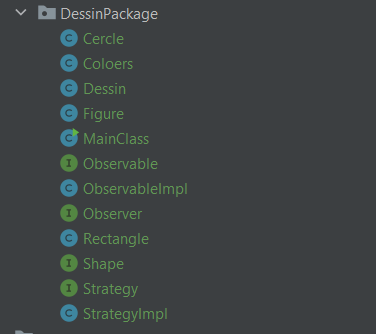
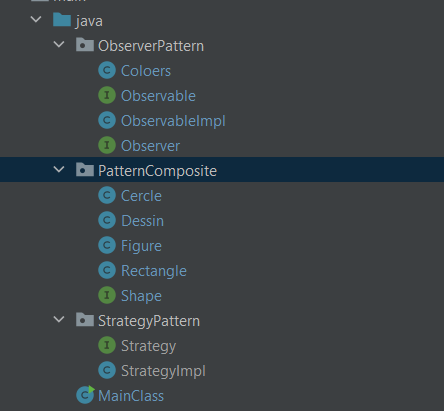
some changes to project strcture

Changed region(s): [[0.0, 0.0, 1.0, 0.988], [0.0293, 0.988, 0.0878, 1.0]]

diff --git a/src/main/java/PatternComposite/Cercle.java b/src/main/java/PatternComposite/Cercle.java
@@ -1,8 +1,12 @@
-package DessinPackage;
+package PatternComposite;
+
+import ObserverPattern.Coloers;
+import ObserverPattern.ObservableImpl;
+import ObserverPattern.Observer;
 
 import java.io.Serializable;
 
-public class Cercle implements Shape,Observer, Serializable {
+public class Cercle implements Shape, Observer, Serializable {
     ObservableImpl observable = new ObservableImpl();
     Coloers coloers = new Coloers();
     double rayon;

diff --git a/src/main/java/MainClass.java b/src/main/java/MainClass.java
@@ -1,4 +1,8 @@
-package DessinPackage;
+import PatternComposite.*;
+import ObserverPattern.Coloers;
+import ObserverPattern.ObservableImpl;
+import StrategyPattern.Strategy;
+import StrategyPattern.StrategyImpl;
 
 import java.io.IOException;
 

diff --git a/src/main/java/PatternComposite/Rectangle.java b/src/main/java/PatternComposite/Rectangle.java
@@ -1,4 +1,8 @@
-package DessinPackage;
+package PatternComposite;
+
+import ObserverPattern.Coloers;
+import ObserverPattern.ObservableImpl;
+import ObserverPattern.Observer;
 
 import java.io.Serializable;
 

diff --git a/src/main/java/PatternComposite/Dessin.java b/src/main/java/PatternComposite/Dessin.java
@@ -1,4 +1,6 @@
-package DessinPackage;
+package PatternComposite;
+
+import StrategyPattern.Strategy;
 
 import java.io.*;
 import java.util.ArrayList;

diff --git a/src/main/java/ObserverPattern/Observable.java b/src/main/java/ObserverPattern/Observable.java
@@ -1,4 +1,4 @@
-package DessinPackage;
+package ObserverPattern;
 
 public interface Observable {
     public void addObserver(Observer obs);

diff --git a/src/main/java/PatternComposite/Figure.java b/src/main/java/PatternComposite/Figure.java
@@ -1,4 +1,4 @@
-package DessinPackage;
+package PatternComposite;
 
 import java.io.Serializable;
 import java.util.ArrayList;

diff --git a/src/main/java/ObserverPattern/ObservableImpl.java b/src/main/java/ObserverPattern/ObservableImpl.java
@@ -1,4 +1,4 @@
-package DessinPackage;
+package ObserverPattern;
 
 import java.io.Serializable;
 import java.util.ArrayList;

diff --git a/src/main/java/PatternComposite/Shape.java b/src/main/java/PatternComposite/Shape.java
@@ -1,4 +1,4 @@
-package DessinPackage;
+package PatternComposite;
 
 public interface Shape  {
     public void afficher();

diff --git a/src/main/java/ObserverPattern/Coloers.java b/src/main/java/ObserverPattern/Coloers.java
@@ -1,4 +1,4 @@
-package DessinPackage;
+package ObserverPattern;
 
 import java.io.Serializable;
 

diff --git a/src/main/java/StrategyPattern/StrategyImpl.java b/src/main/java/StrategyPattern/StrategyImpl.java
@@ -1,4 +1,4 @@
-package DessinPackage;
+package StrategyPattern;
 
 import java.io.Serializable;
 

diff --git a/src/main/java/ObserverPattern/Observer.java b/src/main/java/ObserverPattern/Observer.java
@@ -1,4 +1,4 @@
-package DessinPackage;
+package ObserverPattern;
 
 public interface Observer {
 

diff --git a/src/main/java/StrategyPattern/Strategy.java b/src/main/java/StrategyPattern/Strategy.java
@@ -1,4 +1,4 @@
-package DessinPackage;
+package StrategyPattern;
 
 
 public interface Strategy {
